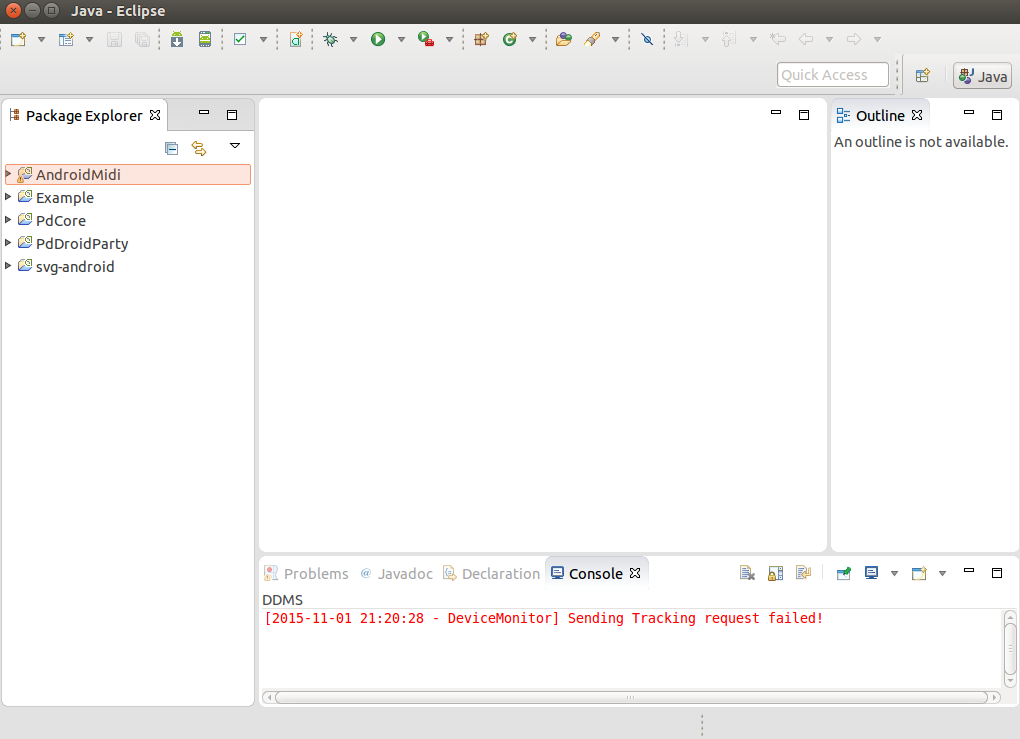
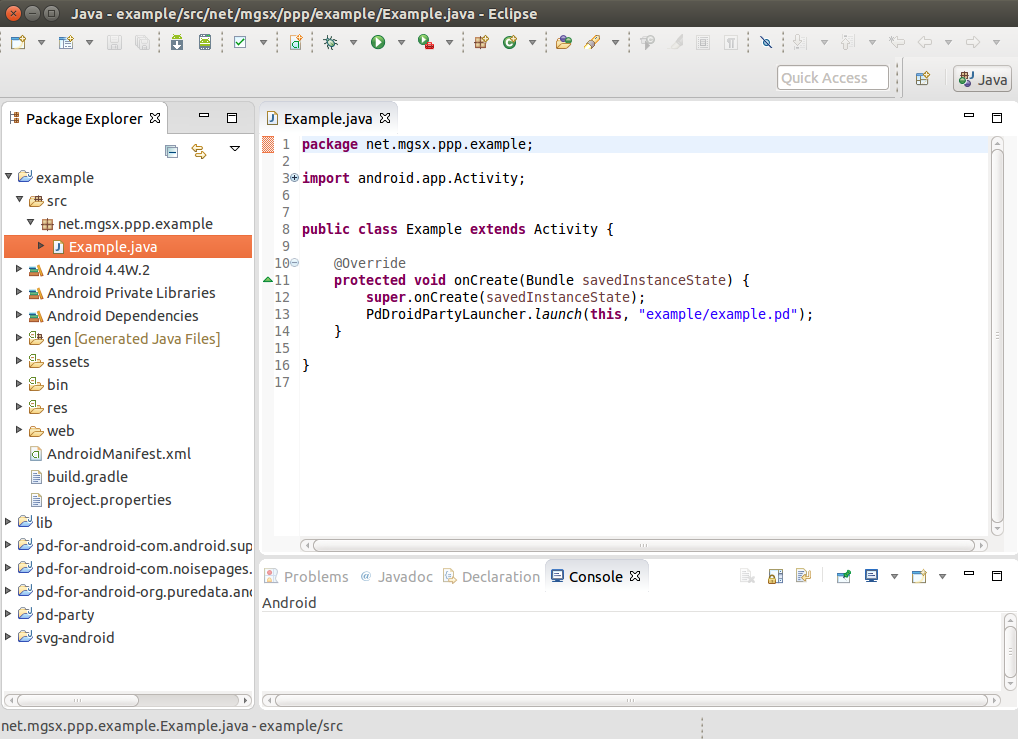
Update website eclipse setup #55

diff --git a/_posts/2015-11-01-Publishing_Stack.md b/_posts/2015-11-01-Publishing_Stack.md
@@ -42,7 +42,7 @@ You are now good to go for the software requirement ! Now let's start the fun pa
 
 #Download last distribution
 
-* Go [here](https://github.com/b2renger/PdDroidPublisher/releases) and dowload the latest release (PdPartyPublisher-X.Y.Z.zip file). 
+* Go [here](https://github.com/b2renger/PdDroidPublisher/releases) and dowload the latest release (PdPartyPublisher-X.Y.Z.zip file - do not mistake it with the source code right below, you want the first downloadable file here). 
 * Extract it to a directory that is convenient for you.
 
 <a name="import"/>
@@ -54,24 +54,24 @@ When starting up eclipse, it should prompt you to select a workspace. It is a go
 ![create a workspace]({{site.baseurl}}/img/import_and_build/workspace_creation.png)
 
 Once your workspace is created go to the menu : *File/Import...*
-and select */Android/Existing Android Code Into Workspace.* then click **Next**.
+and select */General/Existing Projects into Workspace.* then click **Next**.
 
 
-![import android code]({{site.baseurl}}/img/import_and_build/import_android_code.png)
+![import android code]({{site.baseurl}}/img/import_and_build/import_general_project.png)
 
 Next to the *Root Directory* field click *Browse* and navigate to the folder containing the last distribution you just extracted.
 
-Finally click *Finish* to import the 5 projects, do not click *copy project into workspace* check box. As we want to keep our workspace and our code separated.
+Finally click *Finish* to import all the projects, do not click *copy project into workspace* check box. As we want to keep our workspace and our code separated.
 
 ![import projects]({{site.baseurl}}/img/import_and_build/import_dialog.png)
 
-You may have a few residual errors after importing the project, you can clear them by clicking the menu *Project/Clean* and select *clean all project* and click *ok*.
+Close the 'workspace' tab. You may have a few residual errors after importing the project, you can clear them by clicking the menu *Project/Clean* and select *clean all project* and click *ok*.
 
 Now you should have a clean workspace to work on.
 
 ![workspace ready]({{site.baseurl}}/img/import_and_build/eclipse_workspace_ready.png)
 
-You can deploy the example by right clicking on the example folder in the left pane and select "Run As \ Android Application".
+You can deploy the example by right clicking on the example folder in the left pane and select "Run As \ Android Application". On the screenshot the "Example.java" file is open in the editor.
 
 You need to be sure to have enabled the "Developper option menu" and in it the "USB debugging mode". The web will help you with that if you don't know yet how to do it.
 
@@ -87,8 +87,6 @@ In your file explorer and a good text editor, you can setup a new working folder
 * change name in the AndroidManifest.xml.
 
 Then in eclipse, import this new folder, by following again the steps to import a project, only this time you'll only have to select the new project to import. If you cannot select it be sure that any of the names are not used twice if so, change it.
-
-![import new project]({{site.baseurl}}/img/import_and_build/import-new-project.png)
 
 In the package explorer you can now right click on the project and change its package name with the menu *Refactor/Rename*. Eclipse may ask you if you want to update your launch configurations, say **yes**.
 
